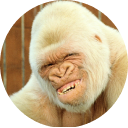
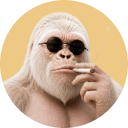
Convert assets to WebP, add gorillas 14-17 and a sightings counter
Assets: 1254px PNGs -> 1000px WebP quality 90. The CSS caps him at 500px
tall, so 1000px still covers retina. 34 MB -> 3.6 MB, which takes the
packaged extension from 26.8 MB down to 3.6 MB. Originals stay local in
assets-src/ (gitignored).

content.js: GORILLAS is now built from a count instead of 17 literals, so
adding gorilla18 is a one-number change.

Counter: the popup shows how often Copito has dropped by. Only spontaneous
page-load visits count -- the shortcut, the Test button and __copito() are
self-inflicted and would just measure how much you tested.

Also swaps in the v2 toolbar icon and bumps the version to 1.4.0.

diff --git a/content.js b/content.js
@@ -17,21 +17,7 @@
   const ENTRY_MS = 400;
   const STARE_MS = 1800;
 
-  const GORILLAS = [
-    'gorilla1.png',
-    'gorilla2.png',
-    'gorilla3.png',
-    'gorilla4.png',
-    'gorilla5.png',
-    'gorilla6.png',
-    'gorilla7.png',
-    'gorilla8.png',
-    'gorilla9.png',
-    'gorilla10.png',
-    'gorilla11.png',
-    'gorilla12.png',
-    'gorilla13.png'
-  ];
+  const GORILLAS = Array.from({ length: 17 }, (_, i) => `gorilla${i + 1}.webp`);
 
   let enabled = true;
 
@@ -78,11 +64,22 @@
   // Devtools-hook (negeert toggle).
   window.__copito = summonGorilla;
 
+  // Alleen spontane verschijningen tellen mee. De sneltoets, de testknop en de
+  // devtools-hook forceer je zelf — die horen niet in de statistiek.
+  function recordSighting() {
+    chrome.storage.sync.get({ sightings: 0 }, ({ sightings }) => {
+      chrome.storage.sync.set({ sightings: sightings + 1 });
+    });
+  }
+
   // Random page-load pop respecteert de toggle.
   chrome.storage.sync.get({ enabled: true }, (s) => {
     enabled = s.enabled;
     if (enabled && Math.random() < CHANCE) {
-      setTimeout(summonGorilla, DELAY_MS);
+      setTimeout(() => {
+        summonGorilla();
+        recordSighting();
+      }, DELAY_MS);
     }
   });
 

diff --git a/popup.js b/popup.js
@@ -2,13 +2,22 @@
   const enabledInput = document.getElementById('enabled');
   const testButton = document.getElementById('test');
   const shortcutEl = document.getElementById('shortcut');
+  const sightingsEl = document.getElementById('sightings');
 
   const isMac = /Mac|iPhone|iPad|iPod/i.test(navigator.platform || navigator.userAgent);
   const keys = isMac ? ['⌥', '⇧', 'G'] : ['Alt', 'Shift', 'G'];
   shortcutEl.innerHTML = keys.map((k) => `<kbd>${k}</kbd>`).join('');
 
-  chrome.storage.sync.get({ enabled: true }, ({ enabled }) => {
+  chrome.storage.sync.get({ enabled: true, sightings: 0 }, ({ enabled, sightings }) => {
     enabledInput.checked = enabled;
+    sightingsEl.textContent = sightings.toLocaleString();
+  });
+
+  // Bijwerken als hij langskomt terwijl de popup openstaat.
+  chrome.storage.onChanged.addListener((changes, area) => {
+    if (area === 'sync' && changes.sightings) {
+      sightingsEl.textContent = changes.sightings.newValue.toLocaleString();
+    }
   });
 
   enabledInput.addEventListener('change', () => {

diff --git a/popup.html b/popup.html
@@ -22,6 +22,11 @@
       <span class="shortcut" id="shortcut"></span>
     </div>
 
+    <div class="row">
+      <span class="row__label">Sightings</span>
+      <span class="row__value" id="sightings">0</span>
+    </div>
+
     <button id="test" class="button" type="button">Test</button>
 
     <script src="popup.js"></script>

diff --git a/popup.css b/popup.css
@@ -64,6 +64,13 @@ body {
   font-size: 12px;
 }
 
+.row__value {
+  font-size: 12px;
+  font-weight: 500;
+  font-variant-numeric: tabular-nums;
+  color: var(--fg);
+}
+
 .toggle {
   position: relative;
   display: inline-flex;

diff --git a/README.md b/README.md
@@ -12,7 +12,9 @@ This extension is a small, quiet homage to him.
 
 On roughly 2% of page loads, Copito appears in the bottom-right corner of the page. He stays for about two seconds, looks at you, and then disappears. That's it. No menus, no notifications, no tracking, no interruption to what you're doing. Just a brief, unexpected visit from an old friend.
 
-Five different photographs of Copito are included, picked at random. Over time, you'll come to recognize each of his moods.
+Seventeen different photographs of Copito are included, picked at random. Over time, you'll come to recognize each of his moods.
+
+The popup keeps a running count of how often he has dropped by — only the spontaneous visits, not the ones you summon yourself.
 
 ## For the impatient
 
@@ -24,12 +26,13 @@ If 2% feels too rare, you can summon him manually:
 ## What this extension does not do
 
 - It does not collect any data about you.
+- It stores exactly two things: whether the extension is on, and how many times Copito has appeared. Both live in Chrome's own extension storage, which syncs across your Chrome profile.
 - It does not track your browsing history.
 - It does not send anything to any server.
 - It does not show ads.
 - It does not modify any website's content beyond briefly overlaying a small image.
 
-The source is deliberately tiny — around 60 lines of JavaScript — so anyone curious can read it in a minute.
+The source is deliberately tiny — under 100 lines of JavaScript — so anyone curious can read it in a minute.
 
 ## Install locally
 
@@ -45,7 +48,8 @@ After code changes: go to `chrome://extensions` and click the refresh icon on th
 - `manifest.json` — extension declaration
 - `content.js` — the logic (chance, random pick, animation timing)
 - `content.css` — positioning and animations
-- `assets/` — the five gorilla PNGs
+- `assets/` — the 17 gorilla WebPs (1000×1000, quality 90)
+- `assets-src/` — the original full-size PNGs, kept locally, not shipped or committed
 - `icon.png` — 128×128 toolbar icon
 
 ## Knobs to turn
@@ -61,9 +65,15 @@ In `content.css`:
 
 ## More or fewer gorillas
 
-In `content.js` there's a `GORILLAS` array with filenames. Add a new entry and drop the matching PNG into `/assets`, and it joins the random pool. No manifest changes needed — the `assets/*.png` wildcard is already there.
+`content.js` builds the `GORILLAS` list from a count: `Array.from({ length: 17 }, ...)`. Drop `gorilla18.webp` into `/assets`, bump the number to 18, and it joins the random pool. No manifest changes needed — the `assets/*.webp` wildcard is already there.
 
-Transparent PNGs look best. Max ~1000px tall is plenty (the CSS scales to 50vh, max 500px).
+Transparency looks best. Keep the source PNG in `assets-src/` and convert:
+
+```bash
+python3 -c "from PIL import Image; im=Image.open('assets-src/gorilla18.png').convert('RGBA'); im.thumbnail((1000,1000), Image.LANCZOS); im.save('assets/gorilla18.webp','WEBP',quality=90,method=6)"
+```
+
+1000px is plenty — the CSS scales to 50vh, max 500px, so that covers retina.
 
 ## Why
 
